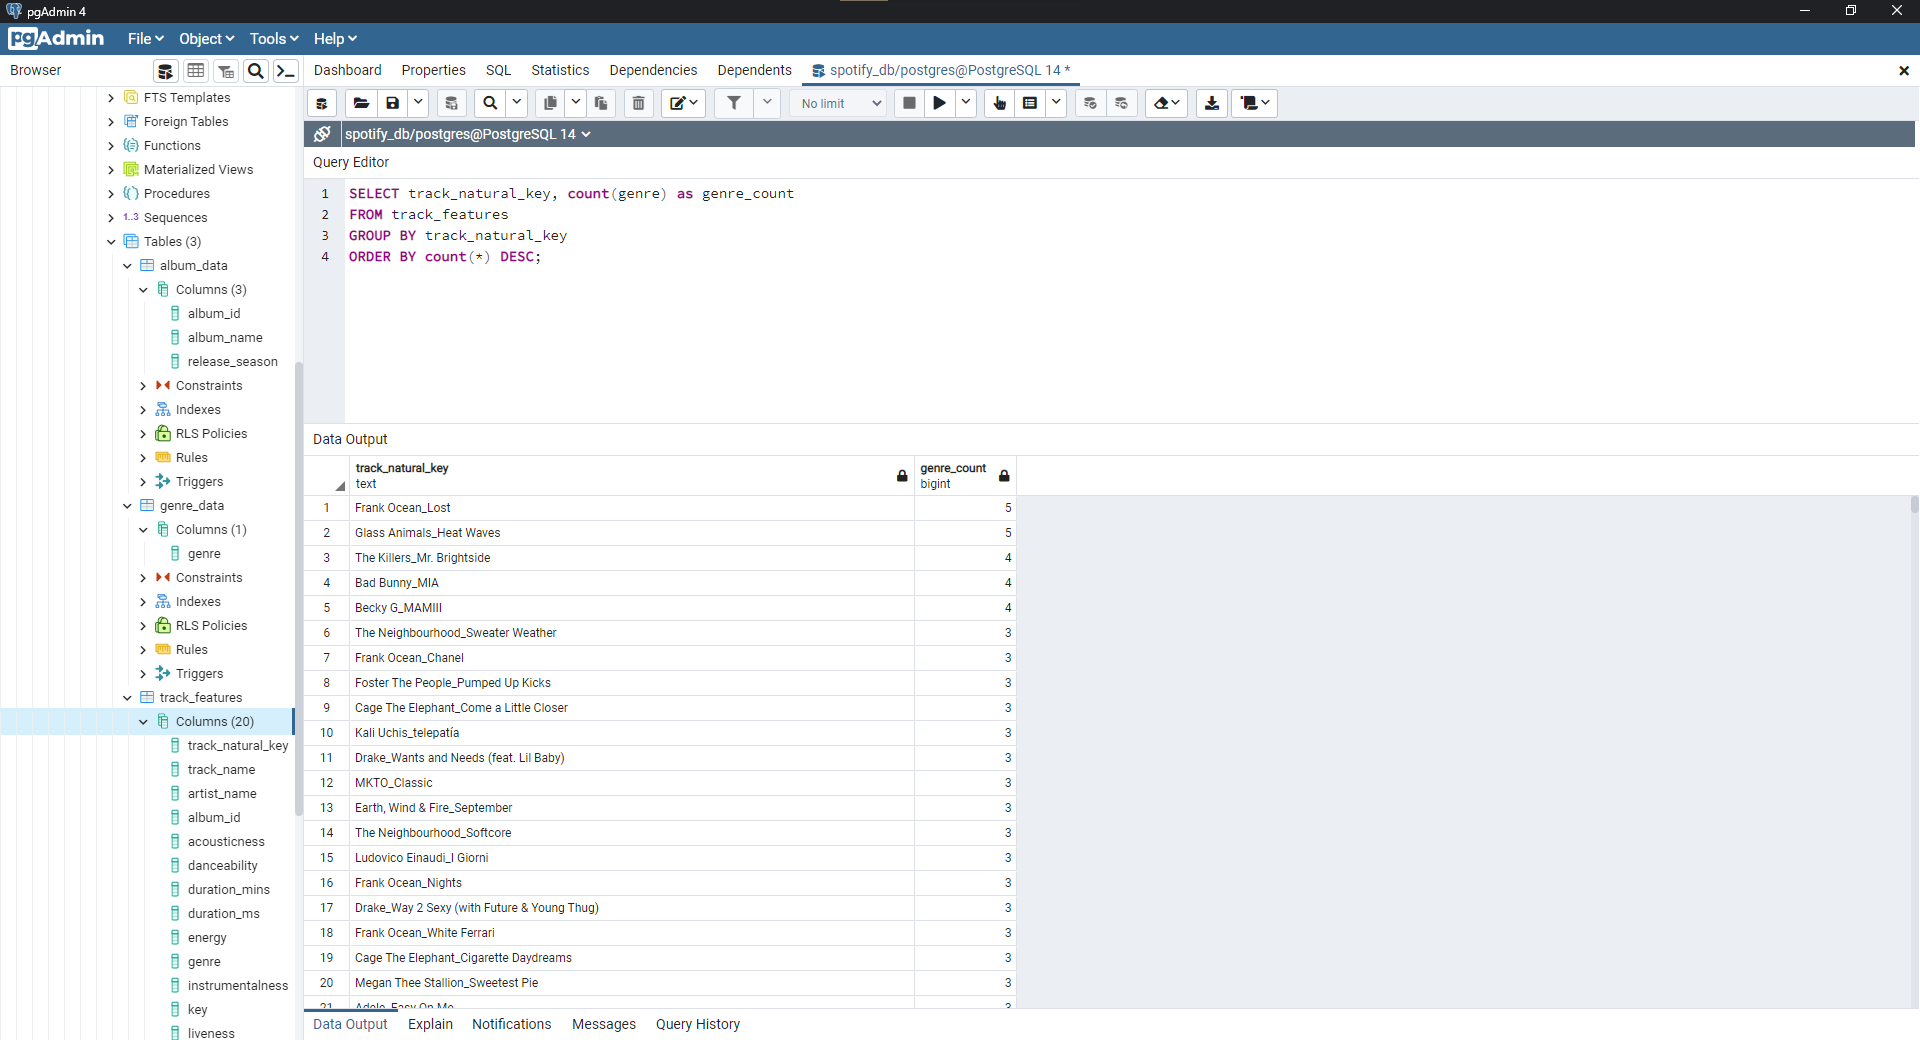
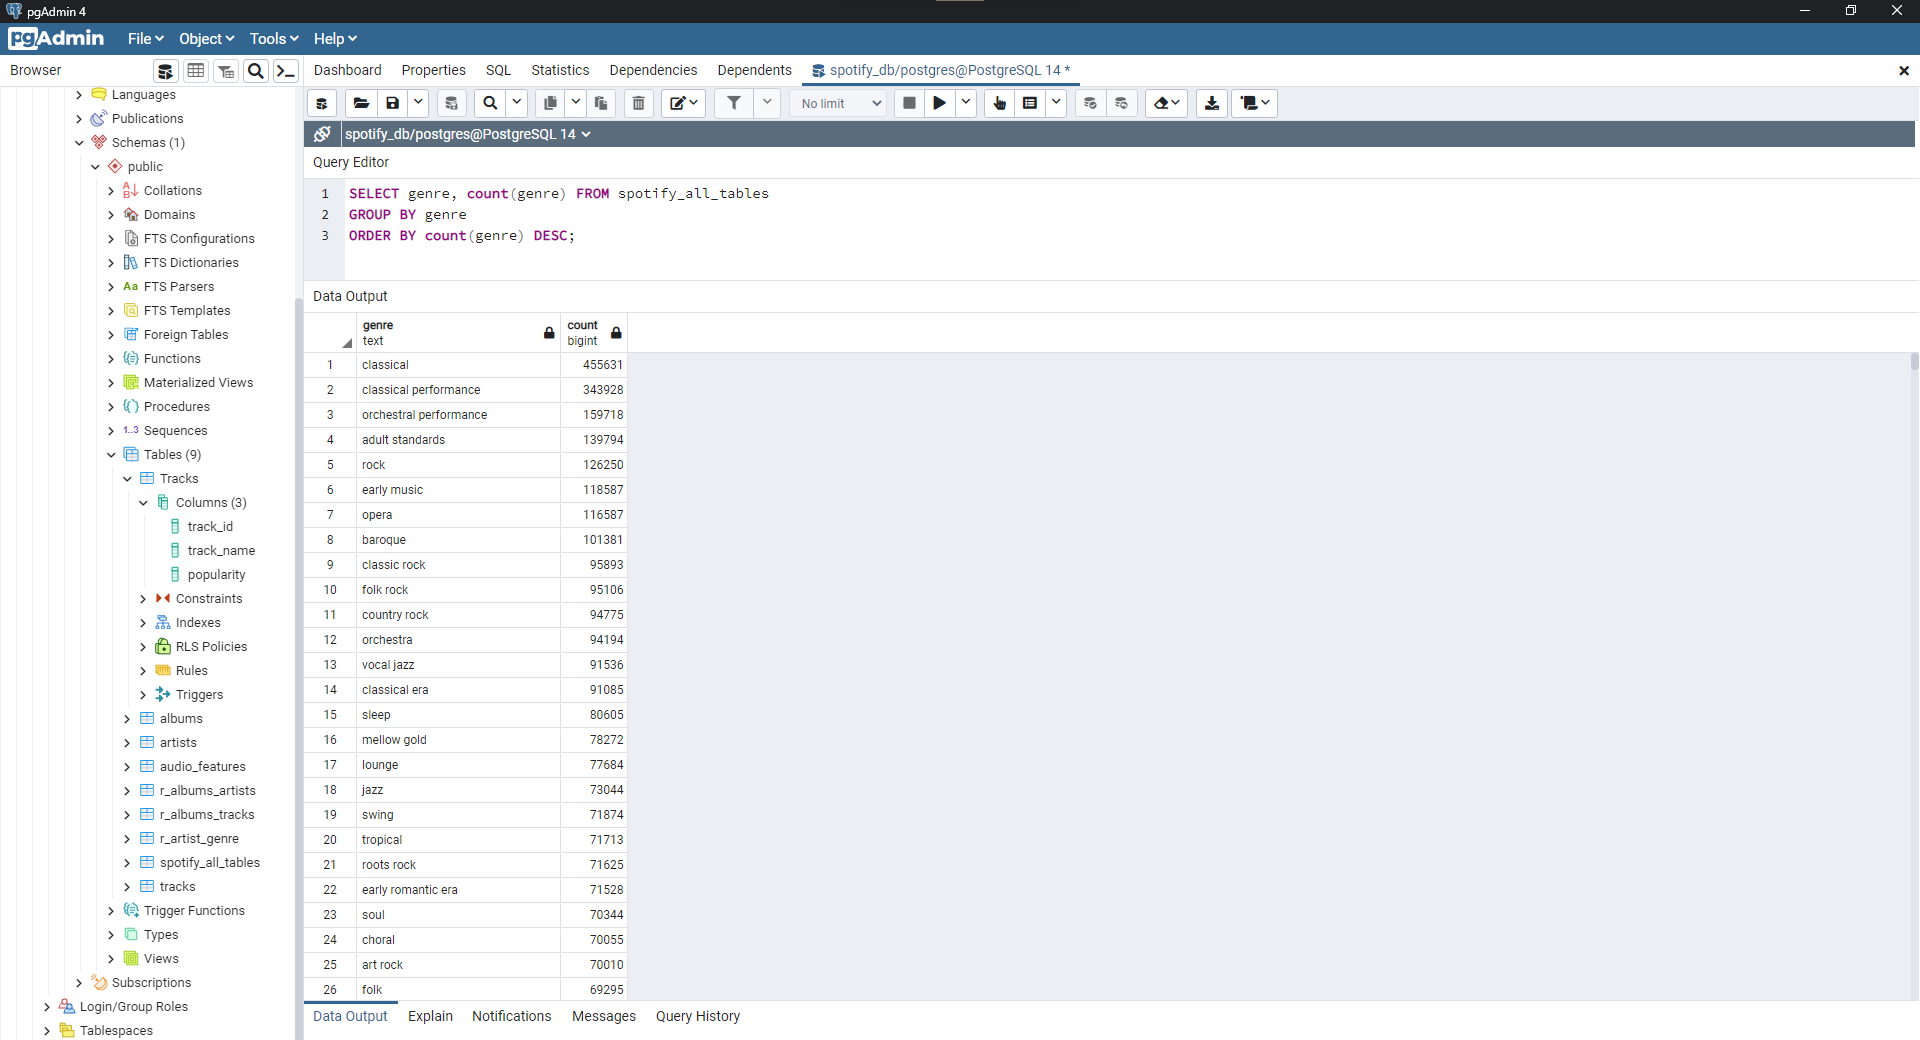
Updated spotify_sqlite_schema.sql with more queries, added images of the groupy and inner join queries, updated README.md with current database details

Changed region(s): [[0.0, 0.0615, 0.4062, 1.0], [0.9688, 0.3385, 1.0, 0.4923], [0.4688, 0.4308, 0.5312, 0.4615]]

diff --git a/README.md b/README.md
@@ -103,39 +103,60 @@ This following histogram shows the feature (speachness):Detects the presence of 
  
 
 ## Database
-Entity relationship diagram and schemas for dataset, consists of tables for genre_data, album_data and track_features. Database currently stores 1000 tracks. Records were written into the database using a connection string (SQLAlchemy) in the [data retrieval notebook](/Notebooks/data_retrieval_using_Spotipy.ipynb):
+Records were written into the database using a connection string (SQLAlchemy) in the [data processing notebook](/Notebooks/data_processing_spotify_sqlite.ipynb) and according to the below entity relationship diagram:
 ```
 # Imports
 from sqlalchemy import create_engine
 import psycopg2 
 from config import db_password
 
-# Create connection to database (endpoint to be decided)
+# Create connection to database
 db_string = f"postgresql://postgres:{db_password}@127.0.0.1:5432/spotify_db"
 
 # instantiate engine
 engine = create_engine(db_string)
 
-track_features.to_sql(name='track_features', con=engine, if_exists='replace', index=False)
-genre_data.to_sql(name='genre_data', con=engine, if_exists='replace', index=False)
-album_data.to_sql(name='album_data', con=engine, if_exists='replace', index=False)
+Albums.to_sql(name='albums', con=engine, if_exists='replace', index=False)
+Artists.to_sql(name='artists', con=engine, if_exists='replace', index=False)
+Audio_features.to_sql(name='audio_features', con=engine, if_exists='replace', index=False)
+R_artist_genre.to_sql(name='r_artist_genre', con=engine, if_exists='replace', index=False)
+R_albums_tracks.to_sql(name='r_albums_tracks', con=engine, if_exists='replace', index=False)
+R_albums_artists.to_sql(name='r_albums_artists', con=engine, if_exists='replace', index=False)
+Tracks.to_sql(name='tracks', con=engine, if_exists='replace', index=False)
 ```
 
-
-Entity relationship diagram:
+Entity relationship diagram of the Spotify database consists of seven tables:
   ![ERD.png](/images/ERD.png)
 
-
-An [example](/images/spotify_db_inner_join.png) table joined on album_id can be exported as CSV to be used downstream for the machine learning model:
+The dataset to be used downstream for the dashboard and machine learning model was generated through a series of [joins](/images/spotify_db_inner_join.png):
 ```
-SELECT *
-FROM track_features
-INNER JOIN album_data
-ON album_data.album_id = track_features.album_id
+SELECT tracks.track_name, 
+    artists.artist_name, 
+    albums.album_name, 
+    rag.genre, 
+    tracks.popularity, 
+    af.*
+FROM tracks
+INNER JOIN audio_features as af
+ON af.track_id = tracks.track_id
+INNER JOIN r_albums_tracks as rat
+ON rat.track_id = af.track_id
+INNER JOIN albums
+ON rat.album_id = albums.album_id
+INNER JOIN r_albums_artists as raa
+ON raa.album_id = rat.album_id
+INNER JOIN artists 
+ON raa.artist_id = artists.artist_id
+INNER JOIN r_artist_genre as rag
+ON rag.artist_id = raa.artist_id;
 ```
+The resulting table, spotify_all_tables, was exported as CSV and then hosted on an [AWS S3 bucket](https://dyl-lee-bucket.s3.amazonaws.com/spotify_all_tables.csv). spotify_all_tables contains 5156587 unique track_id's and 5460 unique genres. Many of these genres are variations of alternatives of generic genres (e.g. Red Hot Chili Peppers are classified as alternative rock, funk rock as well as rock). The decision to keep these alternative genres in the dataset was meant to keep options open for transformations, including reducing the alternative genres to the generic ones if necessary.
+![unique_track_ids.png](/images/spotify_db_distinct_tracks.png)
+![unique_genres.png](/images/spotify_db_genre_groupby.png)
+![rhcp_example.png](/images/spotify_db_distinct_genre_RHCP.png)
 
 ## Questions to be answered
-1. Our main question, what mix of sonic qualities make a song more popular in any given genre?
+1. Our main question, what mix of audio features make a song more popular in any given genre?
 2. Which metrics have the highest impact on song popularity? Which has the least effect?
 3. How does mean song popularity vary from genre to genre? Can we create a tiered-list of the most popular genres?
 4. How much variance is there between the "ideal" song in each genre? Which genres are the most or least sonically similar?
